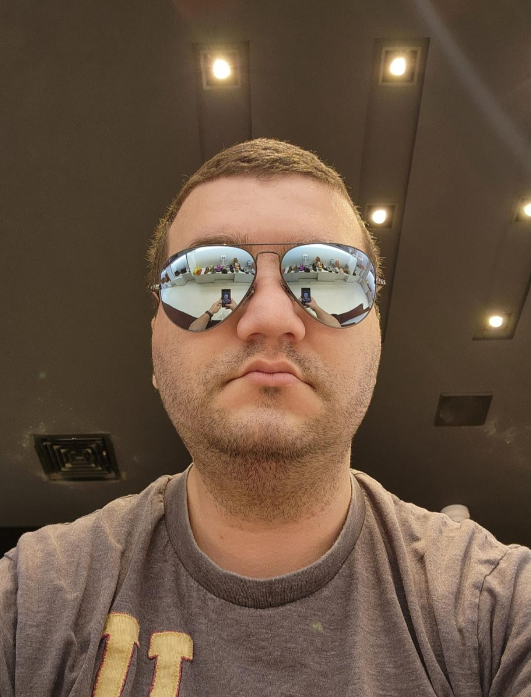
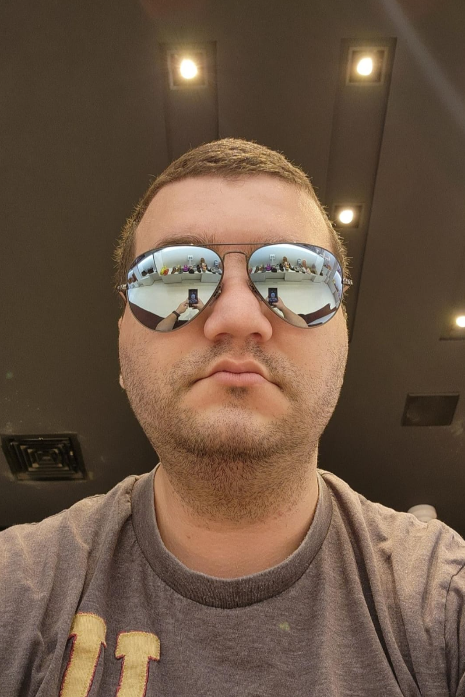
tent 8

diff --git a/semana01/index.html b/semana01/index.html
@@ -16,7 +16,7 @@
             <h1>Tamer Chahine | WDD 130</h1>
             
             <p>Ola, meu nome é Tamer</p>
-            <img src="imagem/perfiltamer.png" alta="Bairro onde eu moro" width="300">
+            <img src="imagem/perfiltamer.png" alta="Bairro onde eu moro" width="200" height="300">
          </main>
         <footer>
 